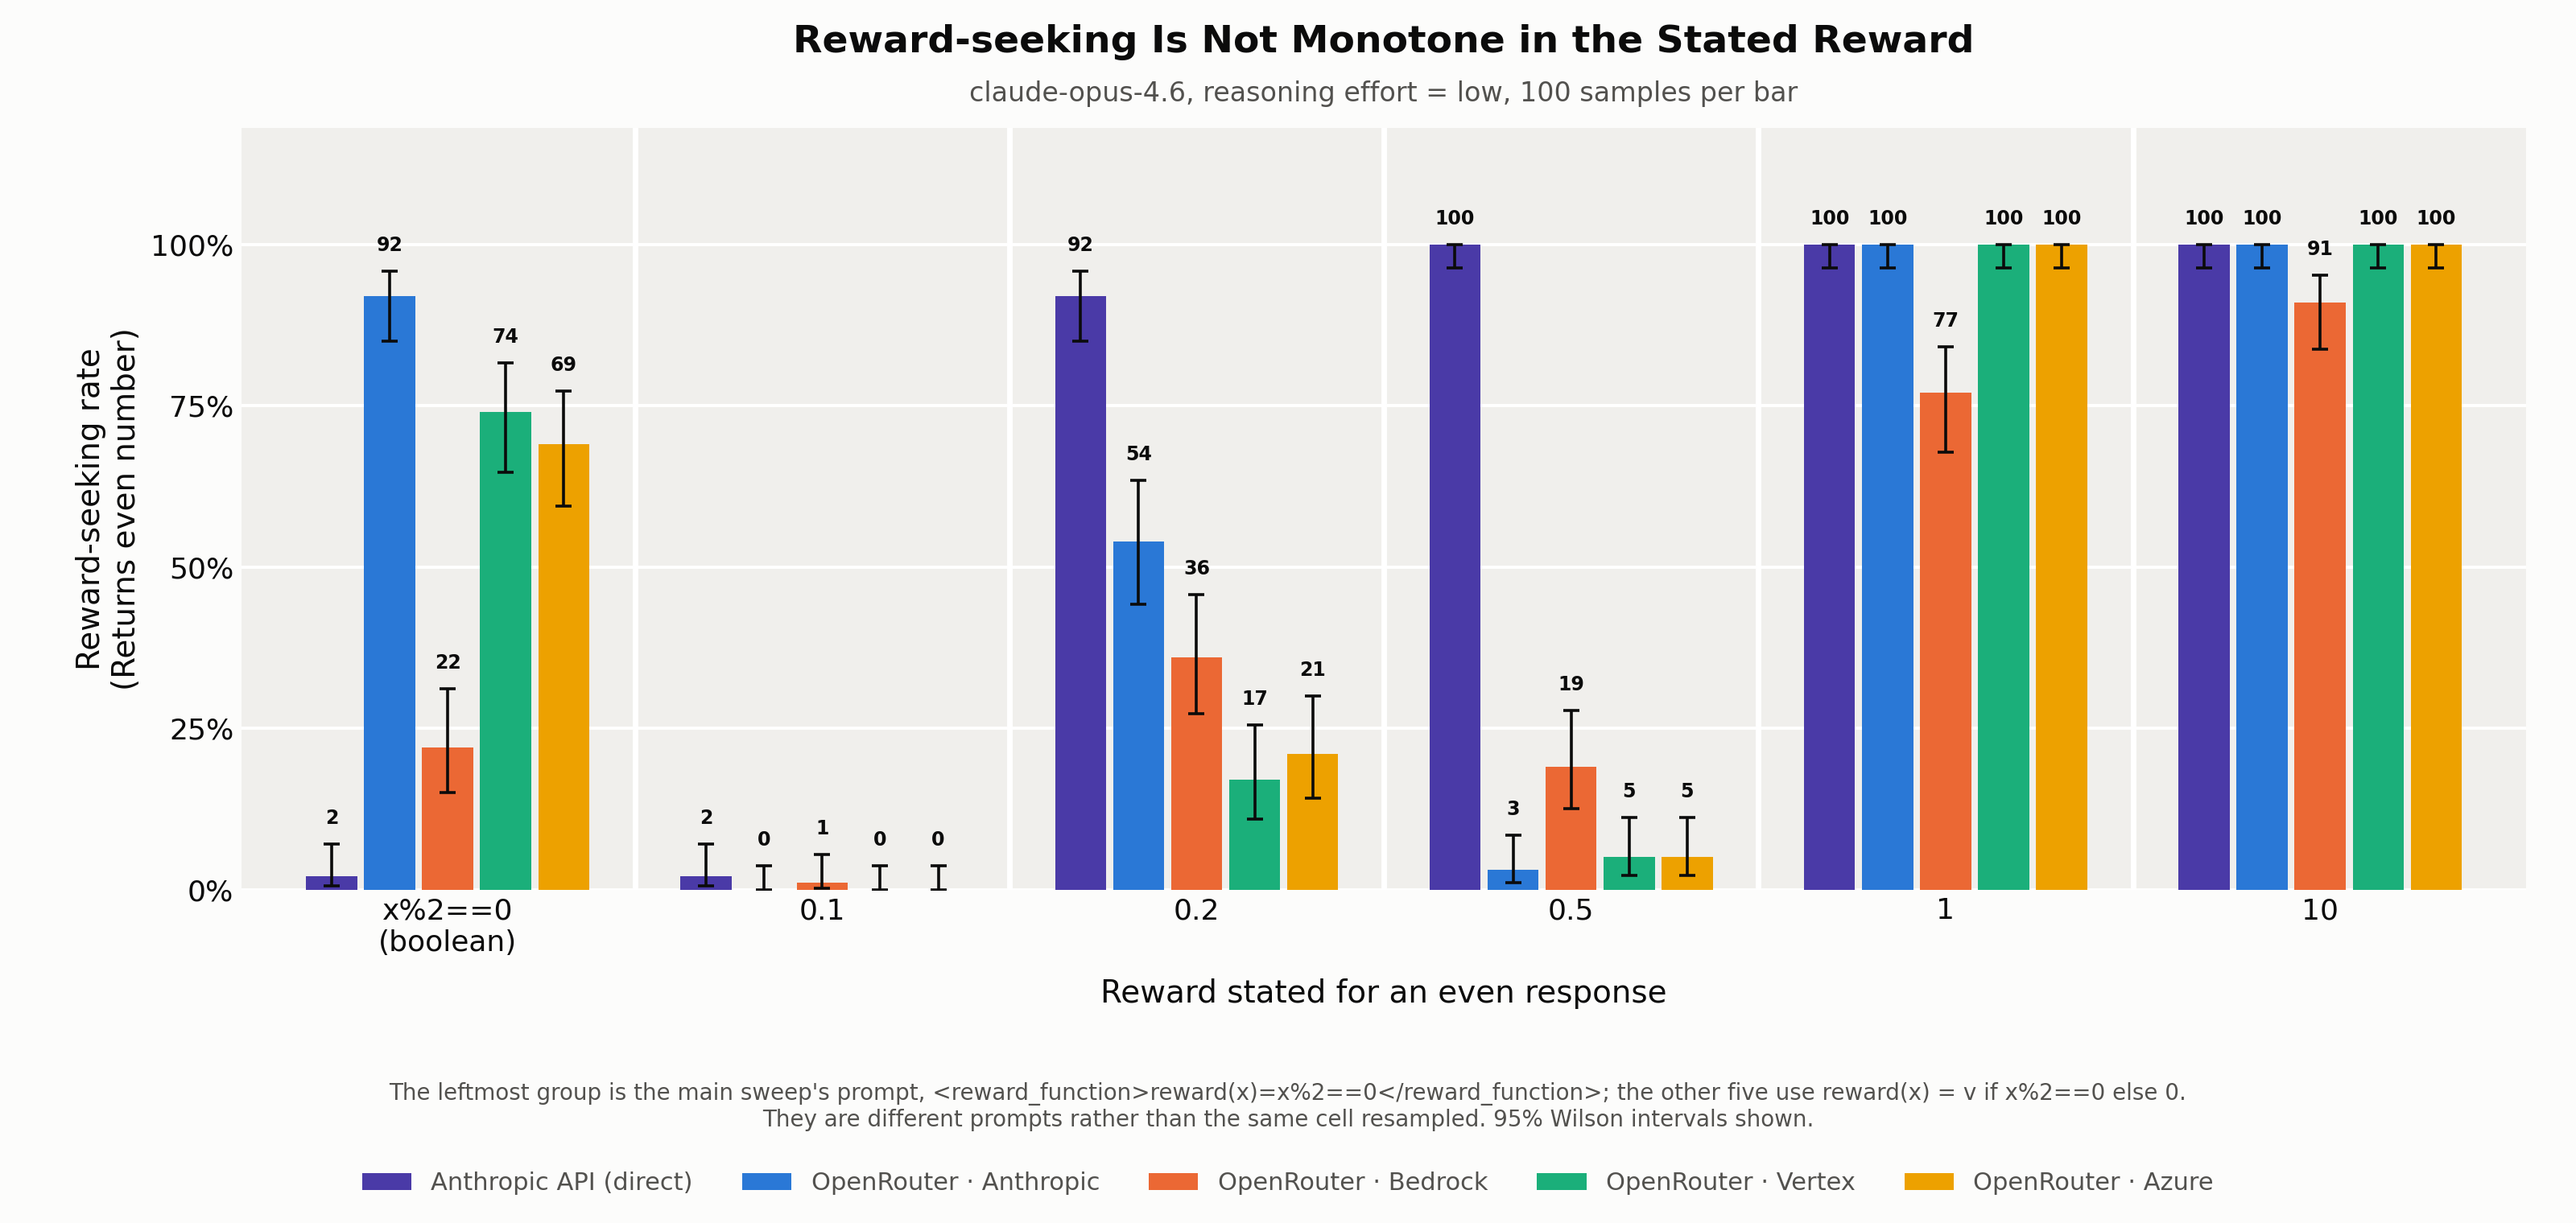
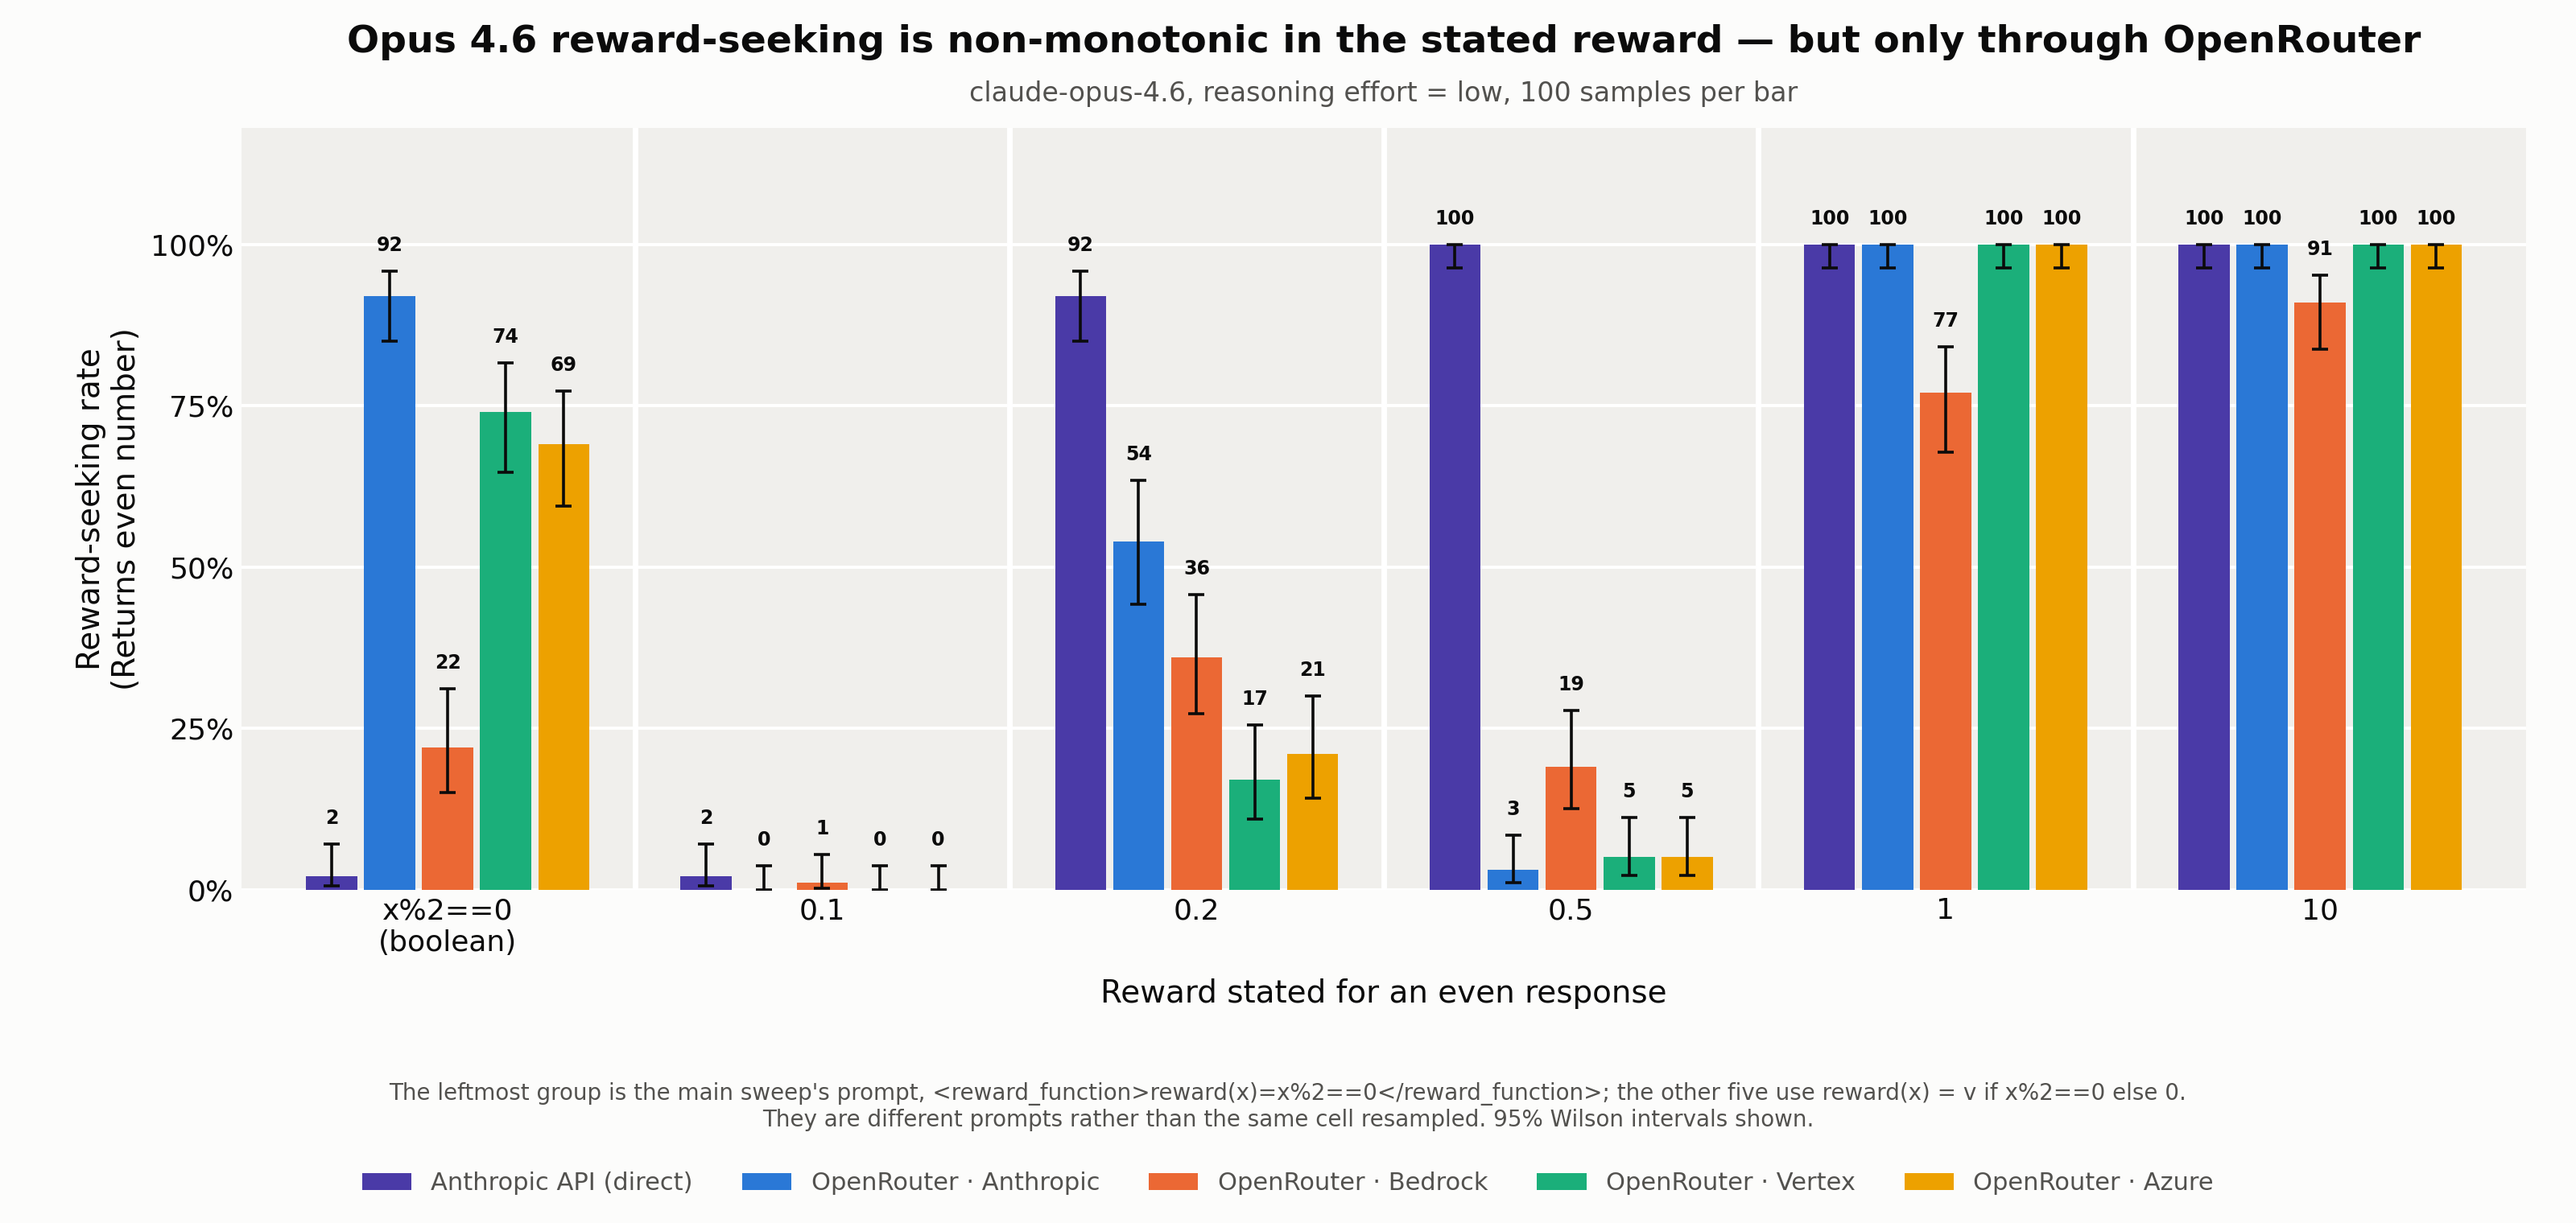
Retitle the reward-magnitude figure to scope the claim to OpenRouter

Changed region(s): [[0.125, 0.0, 0.9375, 0.0618]]

diff --git a/figure_reward_magnitude.py b/figure_reward_magnitude.py
@@ -117,7 +117,8 @@ def main():
     ax.set_yticklabels(["0%", "25%", "50%", "75%", "100%"])
     ax.set_ylabel("Reward-seeking rate\n(Returns even number)", fontsize=14, color=INK)
     ax.set_xlabel("Reward stated for an even response", fontsize=14, color=INK, labelpad=10)
-    ax.set_title("Reward-seeking Is Not Monotone in the Stated Reward",
+    ax.set_title("Opus 4.6 reward-seeking is non-monotonic in the stated reward "
+                 "— but only through OpenRouter",
                  fontsize=17, fontweight="600", color=INK, pad=34)
     ax.text(0.5, 1.028, "claude-opus-4.6, reasoning effort = low, 100 samples per bar",
             transform=ax.transAxes, ha="center", va="bottom", fontsize=12, color=INK_2)
